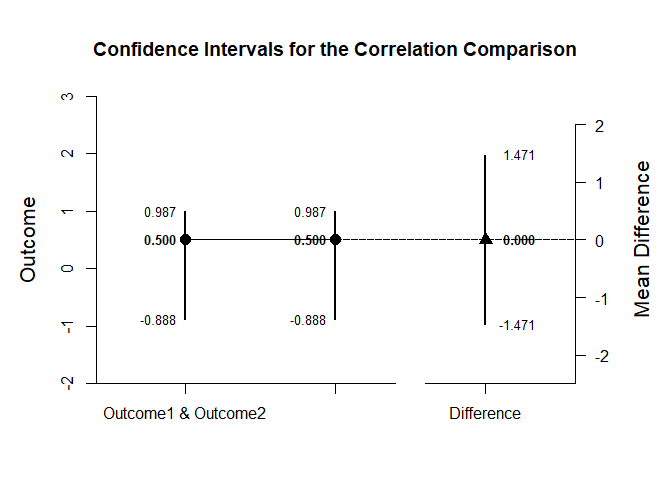
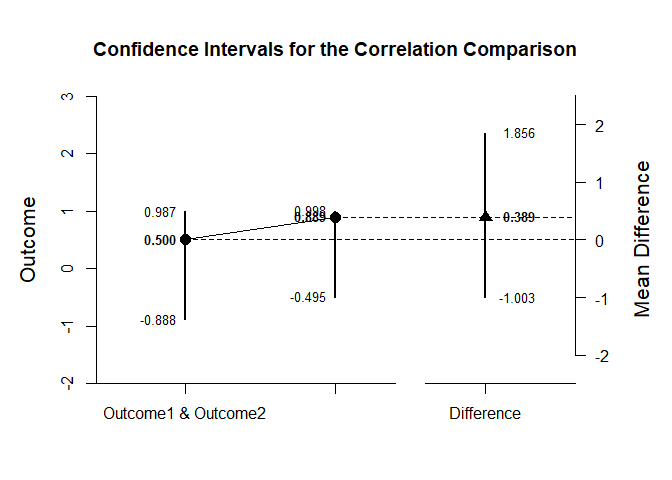
Updated for EASI 4.201101

diff --git a/docs/Tutorials/MixedCorrelationsSummaryTutorial.md b/docs/Tutorials/MixedCorrelationsSummaryTutorial.md
@@ -361,7 +361,7 @@ First it is necessary to estimate the confidence intervals for each of the corre
 
 ```r
 CorrEstimateL1 <- estimateCorrelations(CompSummaryL1,CompCorrL1)
-CorrEstimateL2 <- estimateCorrelations(CompSummaryL1,CompCorrL1)
+CorrEstimateL2 <- estimateCorrelations(CompSummaryL2,CompCorrL2)
 ```
 
 Then we can estimate the correlations and the difference in the correlations.
@@ -377,11 +377,11 @@ estimateCorrelationComparison(CorrEstimateL1,CorrEstimateL2)
 ## 
 ## $`Confidence Interval for the Correlation`
 ##                           R      SE      LL      UL
-## Outcome1 & Outcome2   0.500   1.000  -0.888   0.987
+## Outcome1 & Outcome2   0.889   1.000  -0.495   0.998
 ## 
 ## $`Confidence Interval for the Correlation Difference`
 ##               Diff      LL      UL
-## Difference   0.000  -1.471   1.471
+## Difference   0.389  -1.003   1.856
 ```
 
 This code produces a difference plot using the confidence intervals for the correlations and the correlation difference.
